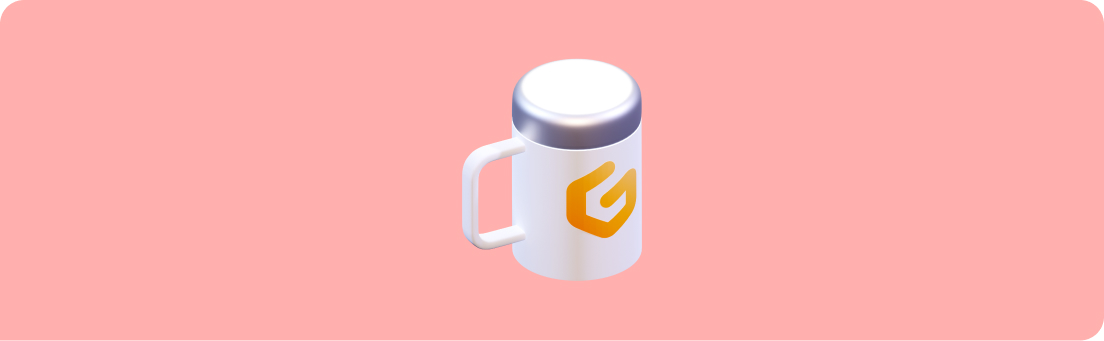
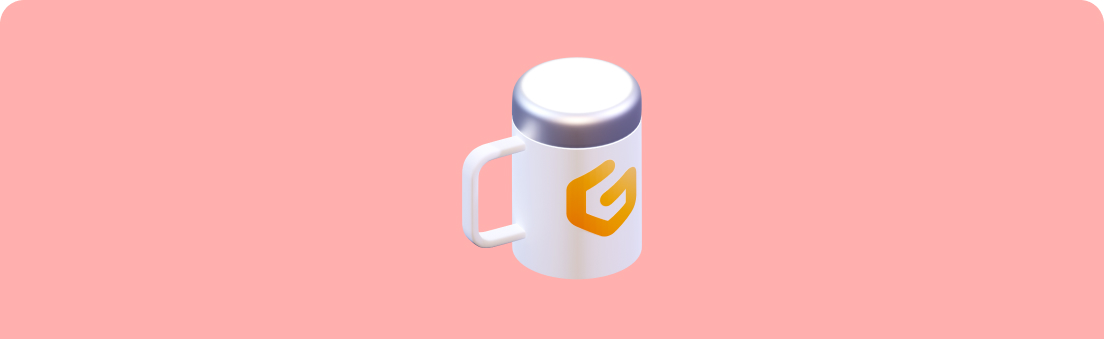
Remove the bottom right rounded corner of the brand image.

Changed region(s): [[0.0, 0.944, 1.0, 1.0], [0.4928, 0.413, 0.5543, 0.4425], [0.4928, 0.1475, 0.5543, 0.177]]

diff --git a/src/routes/blog/next-chapter-for-gitpod.md b/src/routes/blog/next-chapter-for-gitpod.md
@@ -23,10 +23,6 @@ title: Next Chapter for Gitpod
   img[src$="funding.jpg"] {
     margin-top: var(--large);
   }
-
-  img[src$="brand.jpg"] {
-    border-bottom-right-radius: 1rem;
-  }
 </style>
 
 At Gitpod our focus has always been to remove all friction from the developer experience to empower developers to be always ready-to-code. Today we are excited to announce a $13m funding round led by [General Catalyst](https://www.generalcatalyst.com/team/dr-steve-herrod), a fully revamped visual & brand identity as well as several product milestones aimed at defining a new product category in modern software development.
